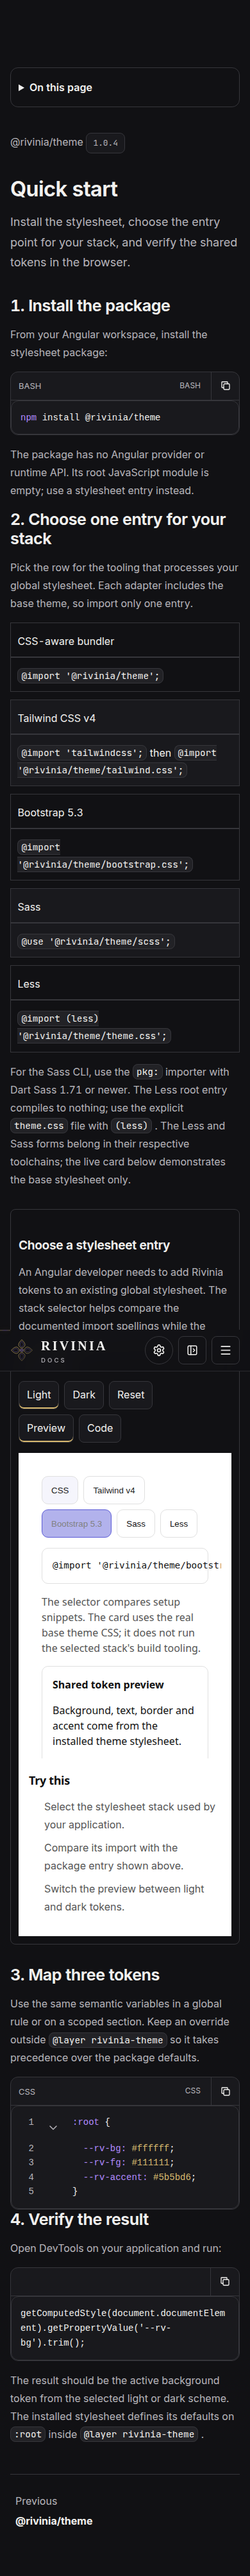
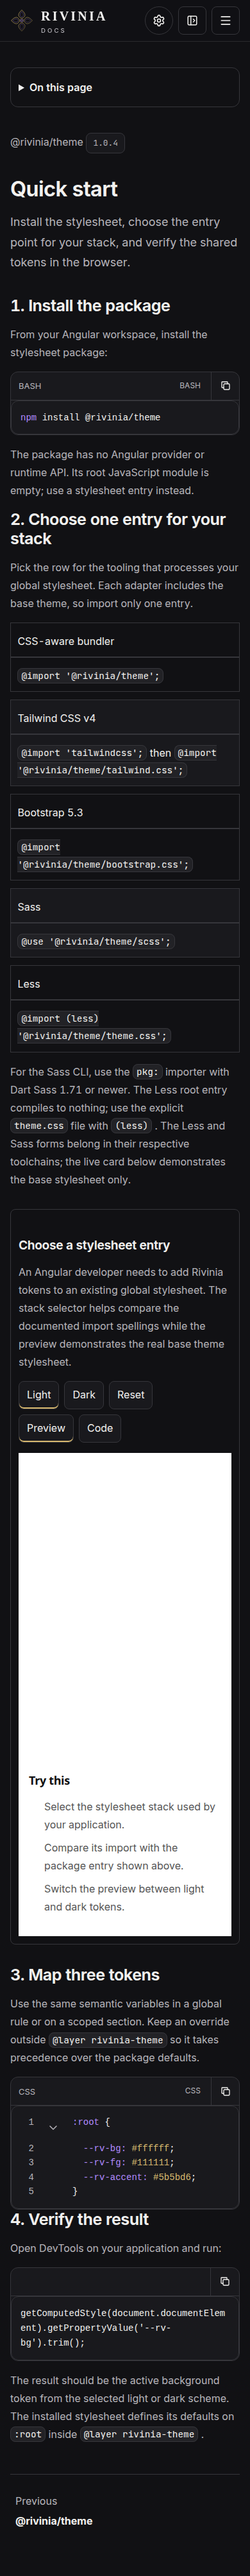
docs(theme): refine example code presentation

diff --git a/src/content/docs/theme/examples/theme-stack-entry/index.html b/src/content/docs/theme/examples/theme-stack-entry/index.html
@@ -3,80 +3,7 @@
   <head>
     <meta charset="utf-8" />
     <meta name="viewport" content="width=device-width, initial-scale=1" />
-    <style>
-      @import '@rivinia/theme';
-
-      body {
-        margin: 0;
-        padding: 1.25rem;
-        color: var(--rv-fg);
-        background: var(--rv-bg);
-        font:
-          1rem/1.5 system-ui,
-          sans-serif;
-      }
-
-      .stack-picker {
-        display: flex;
-        flex-wrap: wrap;
-        gap: 0.5rem;
-        margin-block-end: 1rem;
-      }
-
-      button {
-        min-block-size: 2.75rem;
-        padding-inline: 0.875rem;
-        color: var(--rv-fg);
-        background: var(--rv-bg);
-        border: 1px solid var(--rv-border);
-        border-radius: var(--rv-radius);
-        cursor: pointer;
-      }
-
-      button[aria-pressed='true'] {
-        color: var(--rv-bg);
-        background: var(--rv-accent);
-        border-color: var(--rv-accent);
-      }
-
-      button:focus-visible {
-        outline: 2px solid var(--rv-accent);
-        outline-offset: 3px;
-      }
-
-      pre {
-        overflow-wrap: anywhere;
-        margin: 0;
-        padding: 1rem;
-        color: var(--rv-fg);
-        background: var(--rv-bg);
-        border: 1px solid var(--rv-border);
-        border-radius: var(--rv-radius);
-        font:
-          0.9rem/1.5 ui-monospace,
-          monospace;
-      }
-
-      .note {
-        margin-block: 1rem;
-        color: var(--rv-muted);
-      }
-
-      .card {
-        padding: 1rem;
-        background: var(--rv-bg);
-        border: 1px solid var(--rv-border);
-        border-radius: var(--rv-radius);
-      }
-
-      @media (prefers-reduced-motion: no-preference) {
-        button {
-          transition:
-            background-color 120ms ease,
-            color 120ms ease;
-        }
-      }
-    </style>
+    <link rel="stylesheet" href="./styles.css" />
   </head>
   <body>
     <div class="stack-picker" role="group" aria-label="Stylesheet stack">
@@ -87,31 +14,16 @@
       <button type="button" data-stack="less" aria-pressed="false">Less</button>
     </div>
     <pre id="entry" aria-live="polite">@import '@rivinia/theme';</pre>
-    <p class="note">
-      The selector compares setup snippets. The card uses the real base theme CSS; it does not run
-      the selected stack's build tooling.
-    </p>
+    <p class="note">Base stylesheet preview.</p>
     <div class="card">
-      <strong>Shared token preview</strong>
-      <p>Background, text, border and accent come from the installed theme stylesheet.</p>
-      <button type="button">Example action</button>
+      <strong>Shared theme tokens</strong>
+      <div class="token-list" aria-label="Theme token samples">
+        <span class="token-chip token-bg">Background</span>
+        <span class="token-chip token-fg">Text</span>
+        <span class="token-chip token-border">Border</span>
+        <span class="token-chip token-accent">Accent</span>
+      </div>
     </div>
-    <script>
-      const snippets = {
-        css: "@import '@rivinia/theme';",
-        tailwind: "@import 'tailwindcss';\n@import '@rivinia/theme/tailwind.css';",
-        bootstrap: "@import '@rivinia/theme/bootstrap.css';",
-        sass: "@use '@rivinia/theme/scss';",
-        less: "@import (less) '@rivinia/theme/theme.css';",
-      };
-      const buttons = [...document.querySelectorAll('[data-stack]')];
-      const entry = document.querySelector('#entry');
-      for (const button of buttons) {
-        button.addEventListener('click', () => {
-          for (const item of buttons) item.setAttribute('aria-pressed', String(item === button));
-          entry.textContent = snippets[button.dataset.stack];
-        });
-      }
-    </script>
+    <script src="./main.js"></script>
   </body>
 </html>

diff --git a/src/content/docs/theme/examples/theme-stack-entry/styles.css b/src/content/docs/theme/examples/theme-stack-entry/styles.css
@@ -1,0 +1,119 @@
+@import '@rivinia/theme';
+
+body {
+  margin: 0;
+  padding: 1rem;
+  color: var(--rv-fg);
+  background: var(--rv-bg);
+  font:
+    1rem/1.5 system-ui,
+    sans-serif;
+}
+
+.stack-picker {
+  display: grid;
+  grid-template-columns: repeat(auto-fit, minmax(min(100%, 8rem), 1fr));
+  gap: 0.5rem;
+  margin-block-end: 0.75rem;
+}
+
+button {
+  min-block-size: 2.75rem;
+  padding-inline: 0.75rem;
+  color: var(--rv-fg);
+  background: var(--rv-bg);
+  border: 1px solid var(--rv-border);
+  border-radius: var(--rv-radius);
+  cursor: pointer;
+}
+
+button[aria-pressed='true'] {
+  color: var(--rv-bg);
+  background: var(--rv-accent);
+  border-color: var(--rv-accent);
+}
+
+button:focus-visible {
+  outline: 2px solid var(--rv-accent);
+  outline-offset: 3px;
+}
+
+pre {
+  overflow-wrap: anywhere;
+  margin: 0;
+  padding: 0.75rem;
+  color: var(--rv-fg);
+  background: var(--rv-bg);
+  border: 1px solid var(--rv-border);
+  border-radius: var(--rv-radius);
+  font:
+    0.9rem/1.5 ui-monospace,
+    monospace;
+}
+
+.note {
+  margin-block: 0.75rem;
+  color: var(--rv-muted);
+}
+
+.card {
+  padding: 0.875rem;
+  background: var(--rv-bg);
+  border: 1px solid var(--rv-border);
+  border-radius: var(--rv-radius);
+}
+
+.card p {
+  margin-block: 0.5rem 0.75rem;
+}
+
+.token-list {
+  display: grid;
+  grid-template-columns: repeat(2, minmax(0, 1fr));
+  gap: 0.5rem;
+  margin-block-start: 0.75rem;
+}
+
+.token-chip {
+  display: flex;
+  min-block-size: 2.75rem;
+  align-items: center;
+  gap: 0.5rem;
+  padding-inline: 0.5rem;
+  border: 1px solid var(--rv-border);
+  border-radius: var(--rv-radius);
+  font-size: 0.875rem;
+}
+
+.token-chip::before {
+  inline-size: 0.75rem;
+  block-size: 0.75rem;
+  flex: 0 0 auto;
+  border: 1px solid var(--rv-border);
+  border-radius: 50%;
+  content: '';
+}
+
+.token-bg::before {
+  background: var(--rv-bg);
+}
+
+.token-fg::before {
+  background: var(--rv-fg);
+}
+
+.token-border::before {
+  background: var(--rv-border);
+}
+
+.token-accent::before {
+  background: var(--rv-accent);
+}
+
+@media (prefers-reduced-motion: no-preference) {
+  button {
+    transition:
+      background-color 120ms ease,
+      color 120ms ease;
+  }
+}

diff --git a/src/app/shared/utils/code-highlight.ts b/src/app/shared/utils/code-highlight.ts
@@ -1,5 +1,5 @@
 export type CodeLanguage =
-  'ts' | 'typescript' | 'html' | 'css' | 'scss' | 'less' | 'sh' | 'bash' | 'json' | 'text';
+  'ts' | 'typescript' | 'js' | 'html' | 'css' | 'scss' | 'less' | 'sh' | 'bash' | 'json' | 'text';
 
 export type CodeTokenKind =
   | 'plain'
@@ -145,16 +145,16 @@ function classify(
   ) {
     return 'property';
   }
-  if ((language === 'typescript' || language === 'ts') && KEYWORDS.has(text)) return 'keyword';
+  if (['typescript', 'ts', 'js'].includes(language) && KEYWORDS.has(text)) return 'keyword';
   if (
-    (language === 'typescript' || language === 'ts') &&
+    ['typescript', 'ts', 'js'].includes(language) &&
     (TYPES.has(text) ||
       /^Rivinia[A-Za-z]+$/.test(text) ||
       /^[A-Z][A-Za-z0-9]*(?:Component|Service|Directive)$/.test(text))
   )
     return 'type';
   if (
-    (language === 'typescript' || language === 'ts') &&
+    ['typescript', 'ts', 'js'].includes(language) &&
     /^[A-Za-z_$][\w$]*$/.test(text) &&
     /^\s*:/.test(followingSource)
   ) {
@@ -162,7 +162,7 @@ function classify(
   }
   if (/^\d/.test(text)) return 'number';
   if (/^[A-Za-z_$][\w$]*$/.test(text) && /^\s*\(/.test(followingSource)) return 'function';
-  if ((language === 'typescript' || language === 'ts') && /^[A-Za-z_$][\w$]*$/.test(text))
+  if (['typescript', 'ts', 'js'].includes(language) && /^[A-Za-z_$][\w$]*$/.test(text))
     return 'variable';
   if (/^[{}()[\].,:;=<>+\-*?\/]$/.test(text)) return 'punctuation';
   return 'plain';

diff --git a/src/content/docs/theme/examples/theme-stack-entry/main.js b/src/content/docs/theme/examples/theme-stack-entry/main.js
@@ -1,0 +1,16 @@
+const snippets = {
+  css: "@import '@rivinia/theme';",
+  tailwind: "@import 'tailwindcss';\n@import '@rivinia/theme/tailwind.css';",
+  bootstrap: "@import '@rivinia/theme/bootstrap.css';",
+  sass: "@use '@rivinia/theme/scss';",
+  less: "@import (less) '@rivinia/theme/theme.css';",
+};
+
+const buttons = [...document.querySelectorAll('[data-stack]')];
+const entry = document.querySelector('#entry');
+for (const button of buttons) {
+  button.addEventListener('click', () => {
+    for (const item of buttons) item.setAttribute('aria-pressed', String(item === button));
+    entry.textContent = snippets[button.dataset.stack];
+  });
+}

diff --git a/src/app/features/docs/shared/components/docs-example/docs-example.component.css b/src/app/features/docs/shared/components/docs-example/docs-example.component.css
@@ -4,6 +4,7 @@
   min-inline-size: 0;
 }
 .docs-example {
+  container: docs-example / inline-size;
   border: 1px solid var(--rv-border);
   border-radius: var(--home-radius-sm);
   padding: clamp(0.75rem, 2vw, 1.5rem);
@@ -51,7 +52,7 @@ button[aria-pressed='true'] {
 .file-tabs {
   margin-block-end: 1rem;
 }
-@media (min-width: 1100px) {
+@container docs-example (min-width: 1100px) {
   .example-panes {
     display: grid;
     grid-template-columns: minmax(0, 1fr) minmax(0, 1fr);

diff --git a/src/app/shared/components/code-block/code-block.component.ts b/src/app/shared/components/code-block/code-block.component.ts
@@ -59,6 +59,7 @@ export class CodeBlockComponent {
   protected readonly languageName = computed(() => {
     const language = this.language();
     if (language === 'ts') return 'TypeScript';
+    if (language === 'js') return 'JavaScript';
     if (language === 'json') return 'JSON';
     if (language === 'text') return '';
     return language.toUpperCase();

diff --git a/src/app/shared/components/code-block/code-block.component.css b/src/app/shared/components/code-block/code-block.component.css
@@ -77,6 +77,12 @@ pre {
   overflow-wrap: anywhere;
 }
 
+pre[tabindex='0'] {
+  max-block-size: 36rem;
+  overflow: auto;
+  overscroll-behavior: contain;
+}
+
 .code-line {
   display: grid;
   grid-template-columns: 2.5ch minmax(0, 1fr);

diff --git a/src/app/shared/utils/code-folding.ts b/src/app/shared/utils/code-folding.ts
@@ -28,6 +28,7 @@ export function findCodeFoldRegions(
   if (
     language === 'ts' ||
     language === 'typescript' ||
+    language === 'js' ||
     language === 'json' ||
     ['css', 'scss', 'less'].includes(language)
   ) {

diff --git a/src/app/features/docs/shared/components/docs-example/docs-example.component.html b/src/app/features/docs/shared/components/docs-example/docs-example.component.html
@@ -81,6 +81,7 @@
             [code]="source.source"
             [language]="source.language"
             [filename]="source.path"
+            [scrollable]="true"
           />
         }
       </div>

diff --git a/docs/authored-docs-log.md b/docs/authored-docs-log.md
@@ -19,3 +19,7 @@
 | Step             | Status | Evidence                                                                                                                                                                                                                                                                                                                                                                                                                                                                                                                                                                                                                                                                                                                                                                                                                                                                                                                                                                                    |
 | ---------------- | ------ | ------------------------------------------------------------------------------------------------------------------------------------------------------------------------------------------------------------------------------------------------------------------------------------------------------------------------------------------------------------------------------------------------------------------------------------------------------------------------------------------------------------------------------------------------------------------------------------------------------------------------------------------------------------------------------------------------------------------------------------------------------------------------------------------------------------------------------------------------------------------------------------------------------------------------------------------------------------------------------------------- |
 | E3.2 Quick start | PASS   | Added verified install and stack-entry instructions, token mapping, a DevTools check, and a frame-mode stack selector backed by real base CSS. First verify attempt hit `FATAL ERROR: Reached heap limit Allocation failed - JavaScript heap out of memory`; this exposed recursive expansion of `@import` text inside CSS comments. The first repair then exposed visible import snippets being treated as CSS; the second repair limited expansion to `<style>` blocks and ignored comments. A final generated-code type error (`"js"` outside the supported language union) was fixed by marking the DevTools expression as plain text. `npm run verify` passes: 4 authored Node tests, 18 Angular test files / 81 tests, production build to `builds/prod`. Chromium 1440x900 and 390x844: document title correct, no horizontal overflow, Tailwind and Bootstrap selector snippets switch correctly, no page errors. Screenshots: `docs/screenshots/theme/quick-start-{1440,390}.png`. |
+
+| Step                      | Status | Evidence                                                                                                                                                                                                                                                                                                                                                                                                                                                                                                                                                                                                                                                                                                                                                                                                                                                                                                                                    |
+| ------------------------- | ------ | ------------------------------------------------------------------------------------------------------------------------------------------------------------------------------------------------------------------------------------------------------------------------------------------------------------------------------------------------------------------------------------------------------------------------------------------------------------------------------------------------------------------------------------------------------------------------------------------------------------------------------------------------------------------------------------------------------------------------------------------------------------------------------------------------------------------------------------------------------------------------------------------------------------------------------------------- |
+| E3.2 Example presentation | PASS   | Responding to review: separate real HTML/CSS/JS source tabs, show code full-width when the example container is too narrow, and cap long code with keyboard-accessible scrolling. Initial local-asset guard rejected `./styles.css`; the generator now inlines only same-folder CSS/JS into the sandbox and then checks the assembled frame for external requests. `npm run verify` passes: 4 authored Node tests, 18 Angular test files / 81 tests, production build to `builds/prod`. Chromium at 1196x1010 and 390x844: frame document heights 350/454px within the 460px viewport; code is hidden beside Preview at 838px content width and opens full-width; ordered source tabs are HTML/CSS/JS; code pre is focusable and scrolls at 576px max height; no horizontal overflow, no page errors, theme changes remain inside the frame. Screenshots: `docs/screenshots/theme/quick-start-{1440,390}.png`, `quick-start-code-1196.png`. |

diff --git a/docs/authored-docs-spec.md b/docs/authored-docs-spec.md
@@ -13,7 +13,7 @@ Unzip library-docs-1.0.4.zip (repo root) into src/content/_library-source/<pkg>/
 
 === E2. THE EXAMPLE ENGINE (this is what makes the site more than ordinary docs) ===
 
-- An example is a folder src/content/docs/<pkg>/examples/<name>/ with `meta.json` { title, scenario (2 sentences, who needs this), tryIt: [2-4 short things to do in the preview], mode: "component" | "frame", minHeight, variants: ["theme", "dir"] subset } plus its files. mode "component": an entry file `<name>.example.ts` (standalone Angular component, inline template/styles; extra files such as a service allowed in the folder). mode "frame": an `index.html` (with inline CSS/JS) that is the shown code AND the preview.
+- An example is a folder src/content/docs/<pkg>/examples/<name>/ with `meta.json` { title, scenario (2 sentences, who needs this), tryIt: [2-4 short things to do in the preview], mode: "component" | "frame", minHeight, variants: ["theme", "dir"] subset } plus its files. mode "component": an entry file `<name>.example.ts` (standalone Angular component, inline template/styles; extra files such as a service allowed in the folder). mode "frame": an `index.html` that is the shown markup and preview source. It may reference same-folder CSS/JS files for separately tabbed source; the generator inlines those local assets into the sandboxed preview. Package CSS imports are also inlined at generation time; frames make no external requests.
 - scripts/generate-docs-examples.mjs writes src/generated/docs-examples.generated.ts: name -> { meta, files: [{ path, source }], load }. For frame examples it builds `srcdoc` at generation time, inlining any package CSS it references (for example @rivinia/theme styles/theme.css) from node_modules; no external requests.
 - <app-docs-example> block: title and scenario, a controls row (only the declared variants: Theme Light|Dark applied to the preview container, Direction LTR|RTL, Reset), a Preview/Code switcher with text labels (side by side at >= 1100px), file tabs for multi-file examples with <app-copy-button> per file, and a "Try this" list under the preview. Preview loads with @defer (on viewport; prefetch on idle) in a reserved min-height box (no layout shift). Frame examples use `<iframe sandbox="allow-scripts" title="...">`, no same-origin. An example must NEVER change the docs site's own root tokens, attributes, or storage: component examples render inside a scoped container, root-level behavior (such as an attribute on <html>) is shown only in frame mode.
 - Examples are real files: include them in tsconfig.app.json and tsconfig.spec.json so they compile in `npm run verify`; a deliberate type error must make verify fail (prove it once, then revert). Allowed imports in component examples: @angular/_, @rivinia/_, and files inside the same example folder. Forbidden: imports from src/app, i18n pipes, icon libraries, ::ng-deep, !important. Every service or logic file has a spec next to it.

diff --git a/AGENTS.md b/AGENTS.md
@@ -118,7 +118,7 @@ You are an expert in TypeScript, Angular, and scalable web application developme
 - Keep the Docs sidebar collapsible and its Getting started, Foundations, Components, and Primitives groups in one accessible accordion. Keep sidebar labels concise.
 - Docs and any new UI use existing semantic theme tokens only; no color literals or new hues.
 - Keep the site navbar site-level, the Docs sidebar Docs-level, and the right rail page-level. Never add a second horizontal bar.
-- Keep only the Docs sidebar as a nested scroll region; prevent horizontal page overflow and use logical CSS properties, reduced motion, visible focus, and 44px targets.
+- Keep only the Docs sidebar as a nested scroll region by default. Authored example source viewers may use a bounded, keyboard-focusable code scroll region with an accessible label; prevent horizontal page overflow and use logical CSS properties, reduced motion, visible focus, and 44px targets.
 - Run `npm run verify` after each Docs implementation step and record the outcome and commit in `docs/docs-ia-log.md`.
 - Report unverified browser, contrast, Lighthouse, and accessibility checks explicitly; do not claim them from a build result.
 
@@ -127,6 +127,6 @@ You are an expert in TypeScript, Angular, and scalable web application developme
 - For authored library pages and runnable examples, follow `docs/authored-docs-spec.md` and `.agents/skills/rivinia-docs-authored-docs/SKILL.md`; these supersede snapshot-ingest instructions for migrated libraries.
 - Keep library source material in `src/content/_library-source/` as committed, immutable verification reference. Application code never imports or renders it.
 - Author English content with verified `sources`; generate AST and navigation from `src/content/docs/`. Translate UI chrome and mark English content LTR in Arabic views with a localized notice.
-- Frame examples isolate document-root, storage, or global theme behavior in sandboxed srcdoc. Component examples scope theme and direction to their preview, use approved imports, compile, and test logic.
+- Frame examples isolate document-root, storage, or global theme behavior in sandboxed srcdoc. They may reference same-folder CSS/JS source files, which the build inlines into the frame; never allow external frame requests. Component examples scope theme and direction to their preview, use approved imports, compile, and test logic.
 - Content and example color values are data; application UI uses semantic theme tokens. Preserve sidebar-only nested scrolling, 44px controls, keyboard access, reduced motion, and stable preview geometry.
 - Log each step, run the verify gate, and commit completed steps according to the authored-docs skill. Preserve existing pages for libraries without authored content.
